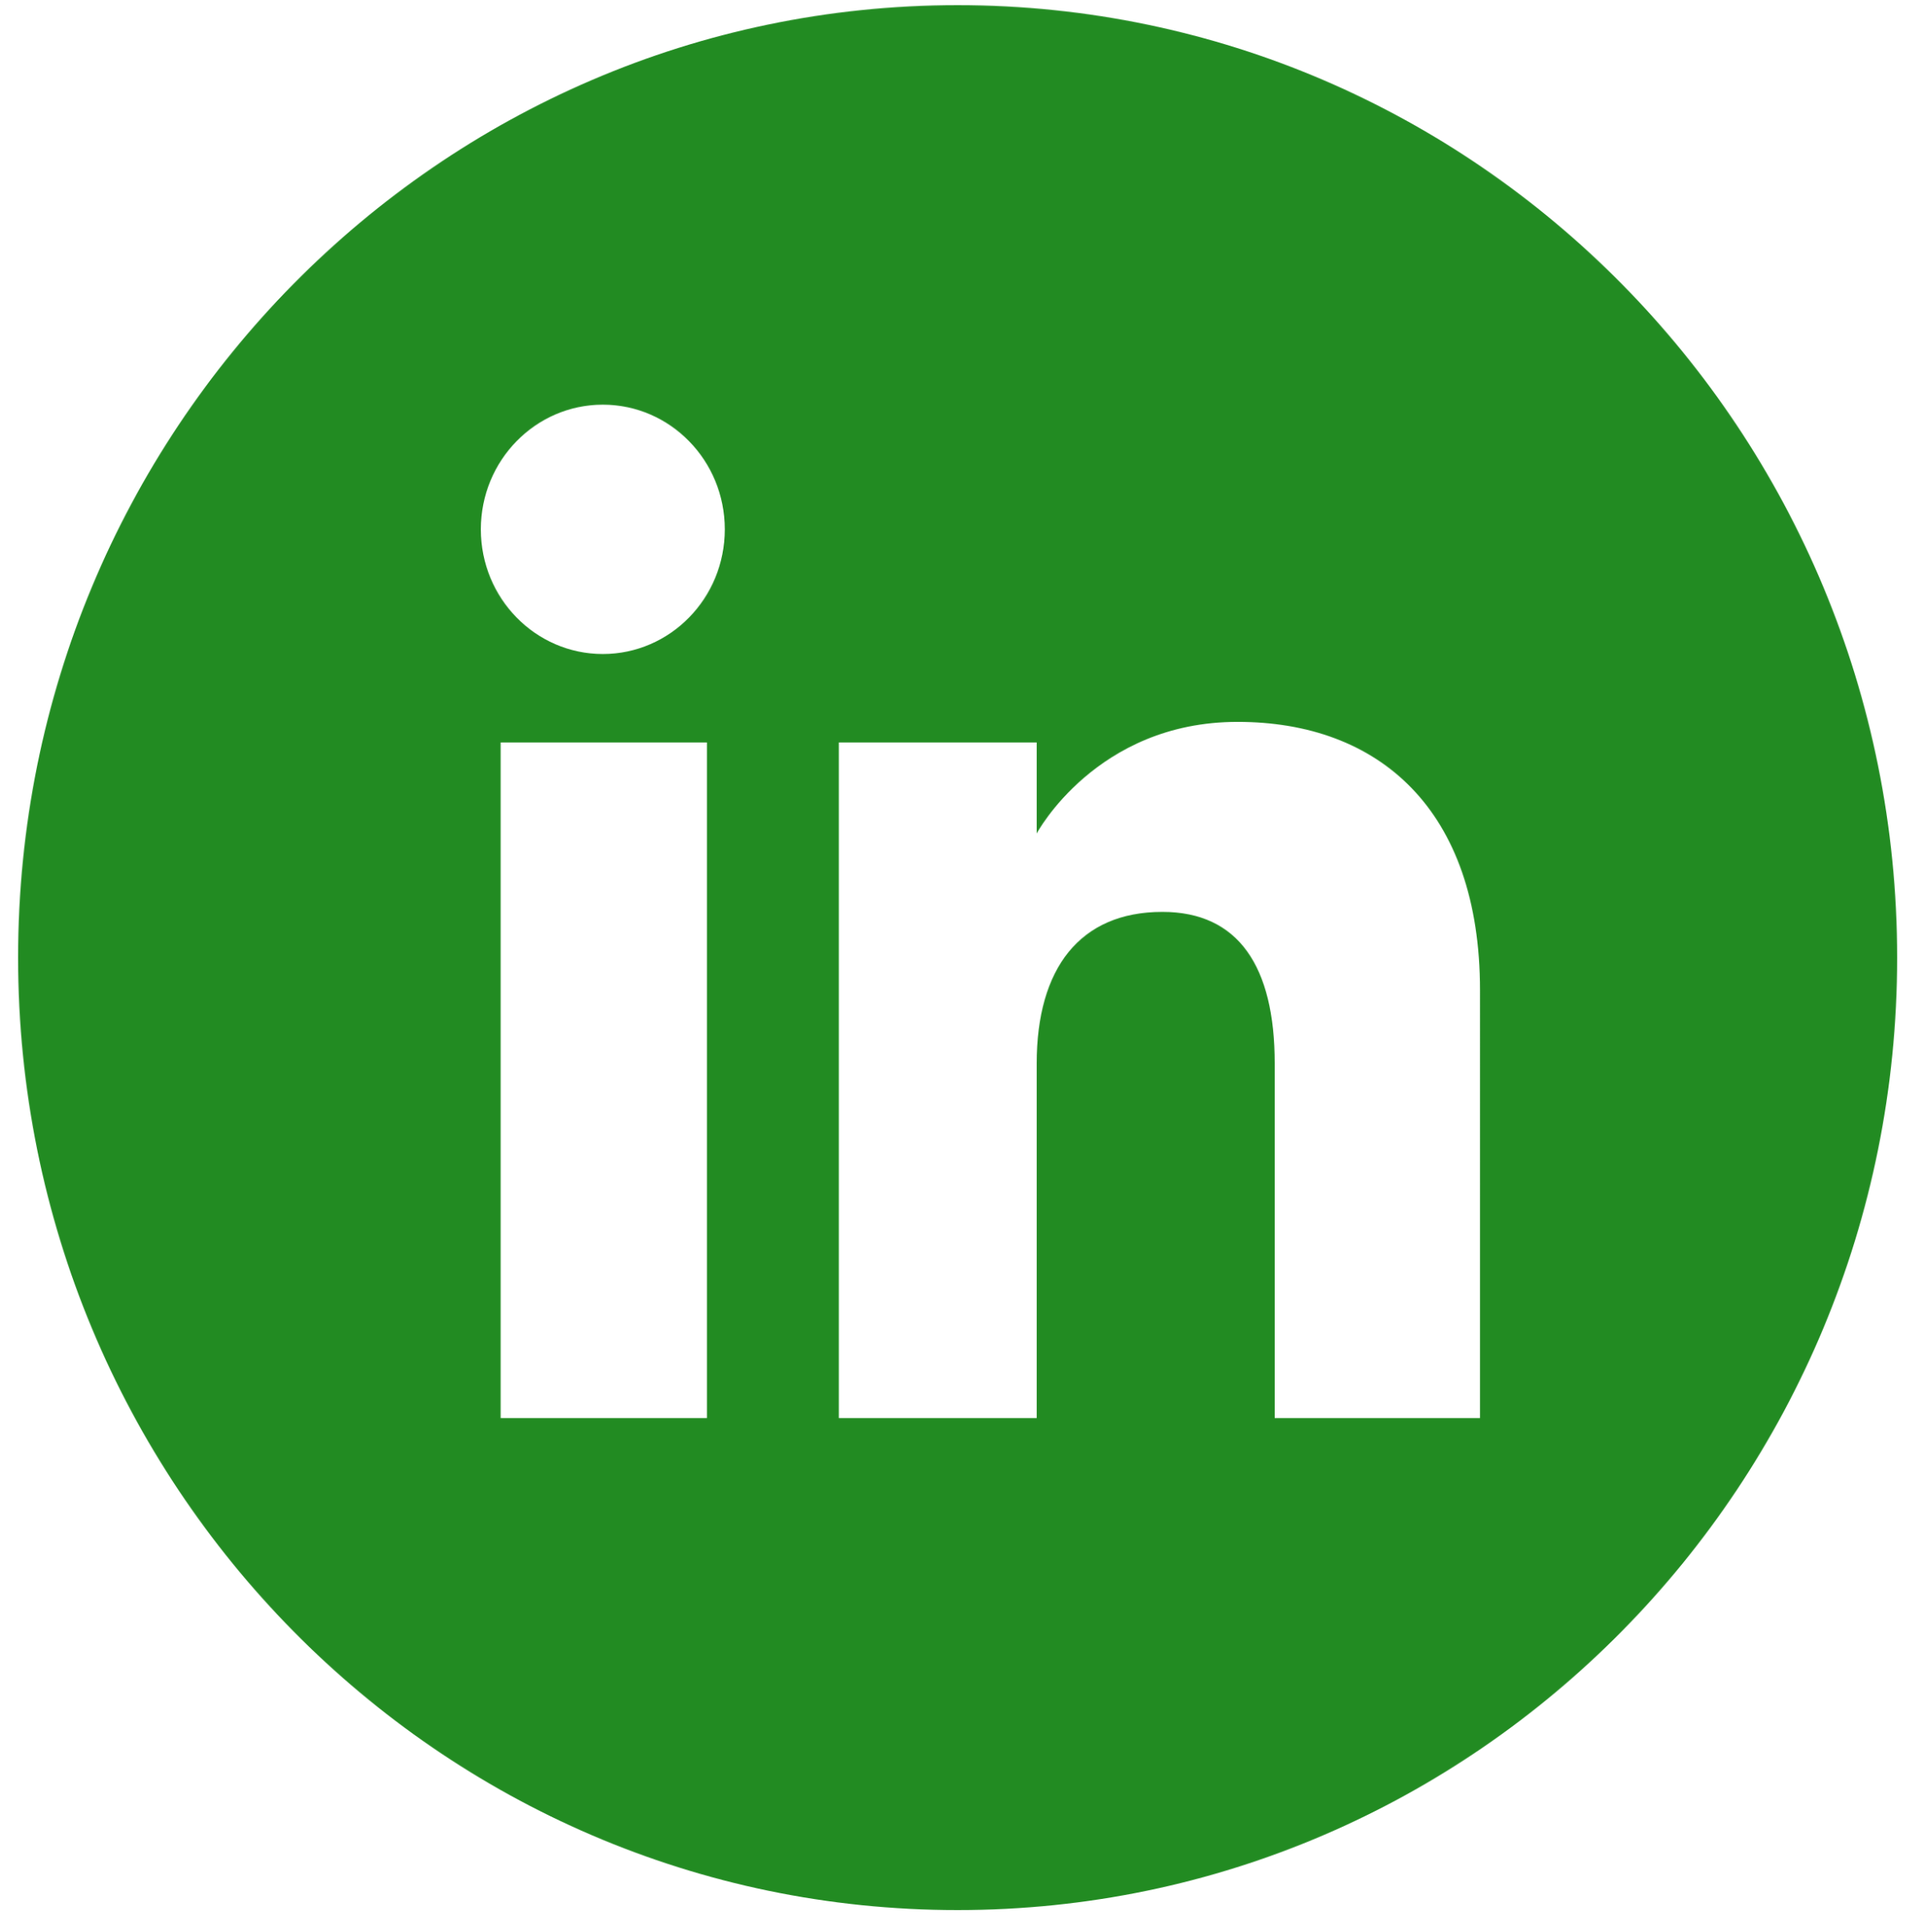
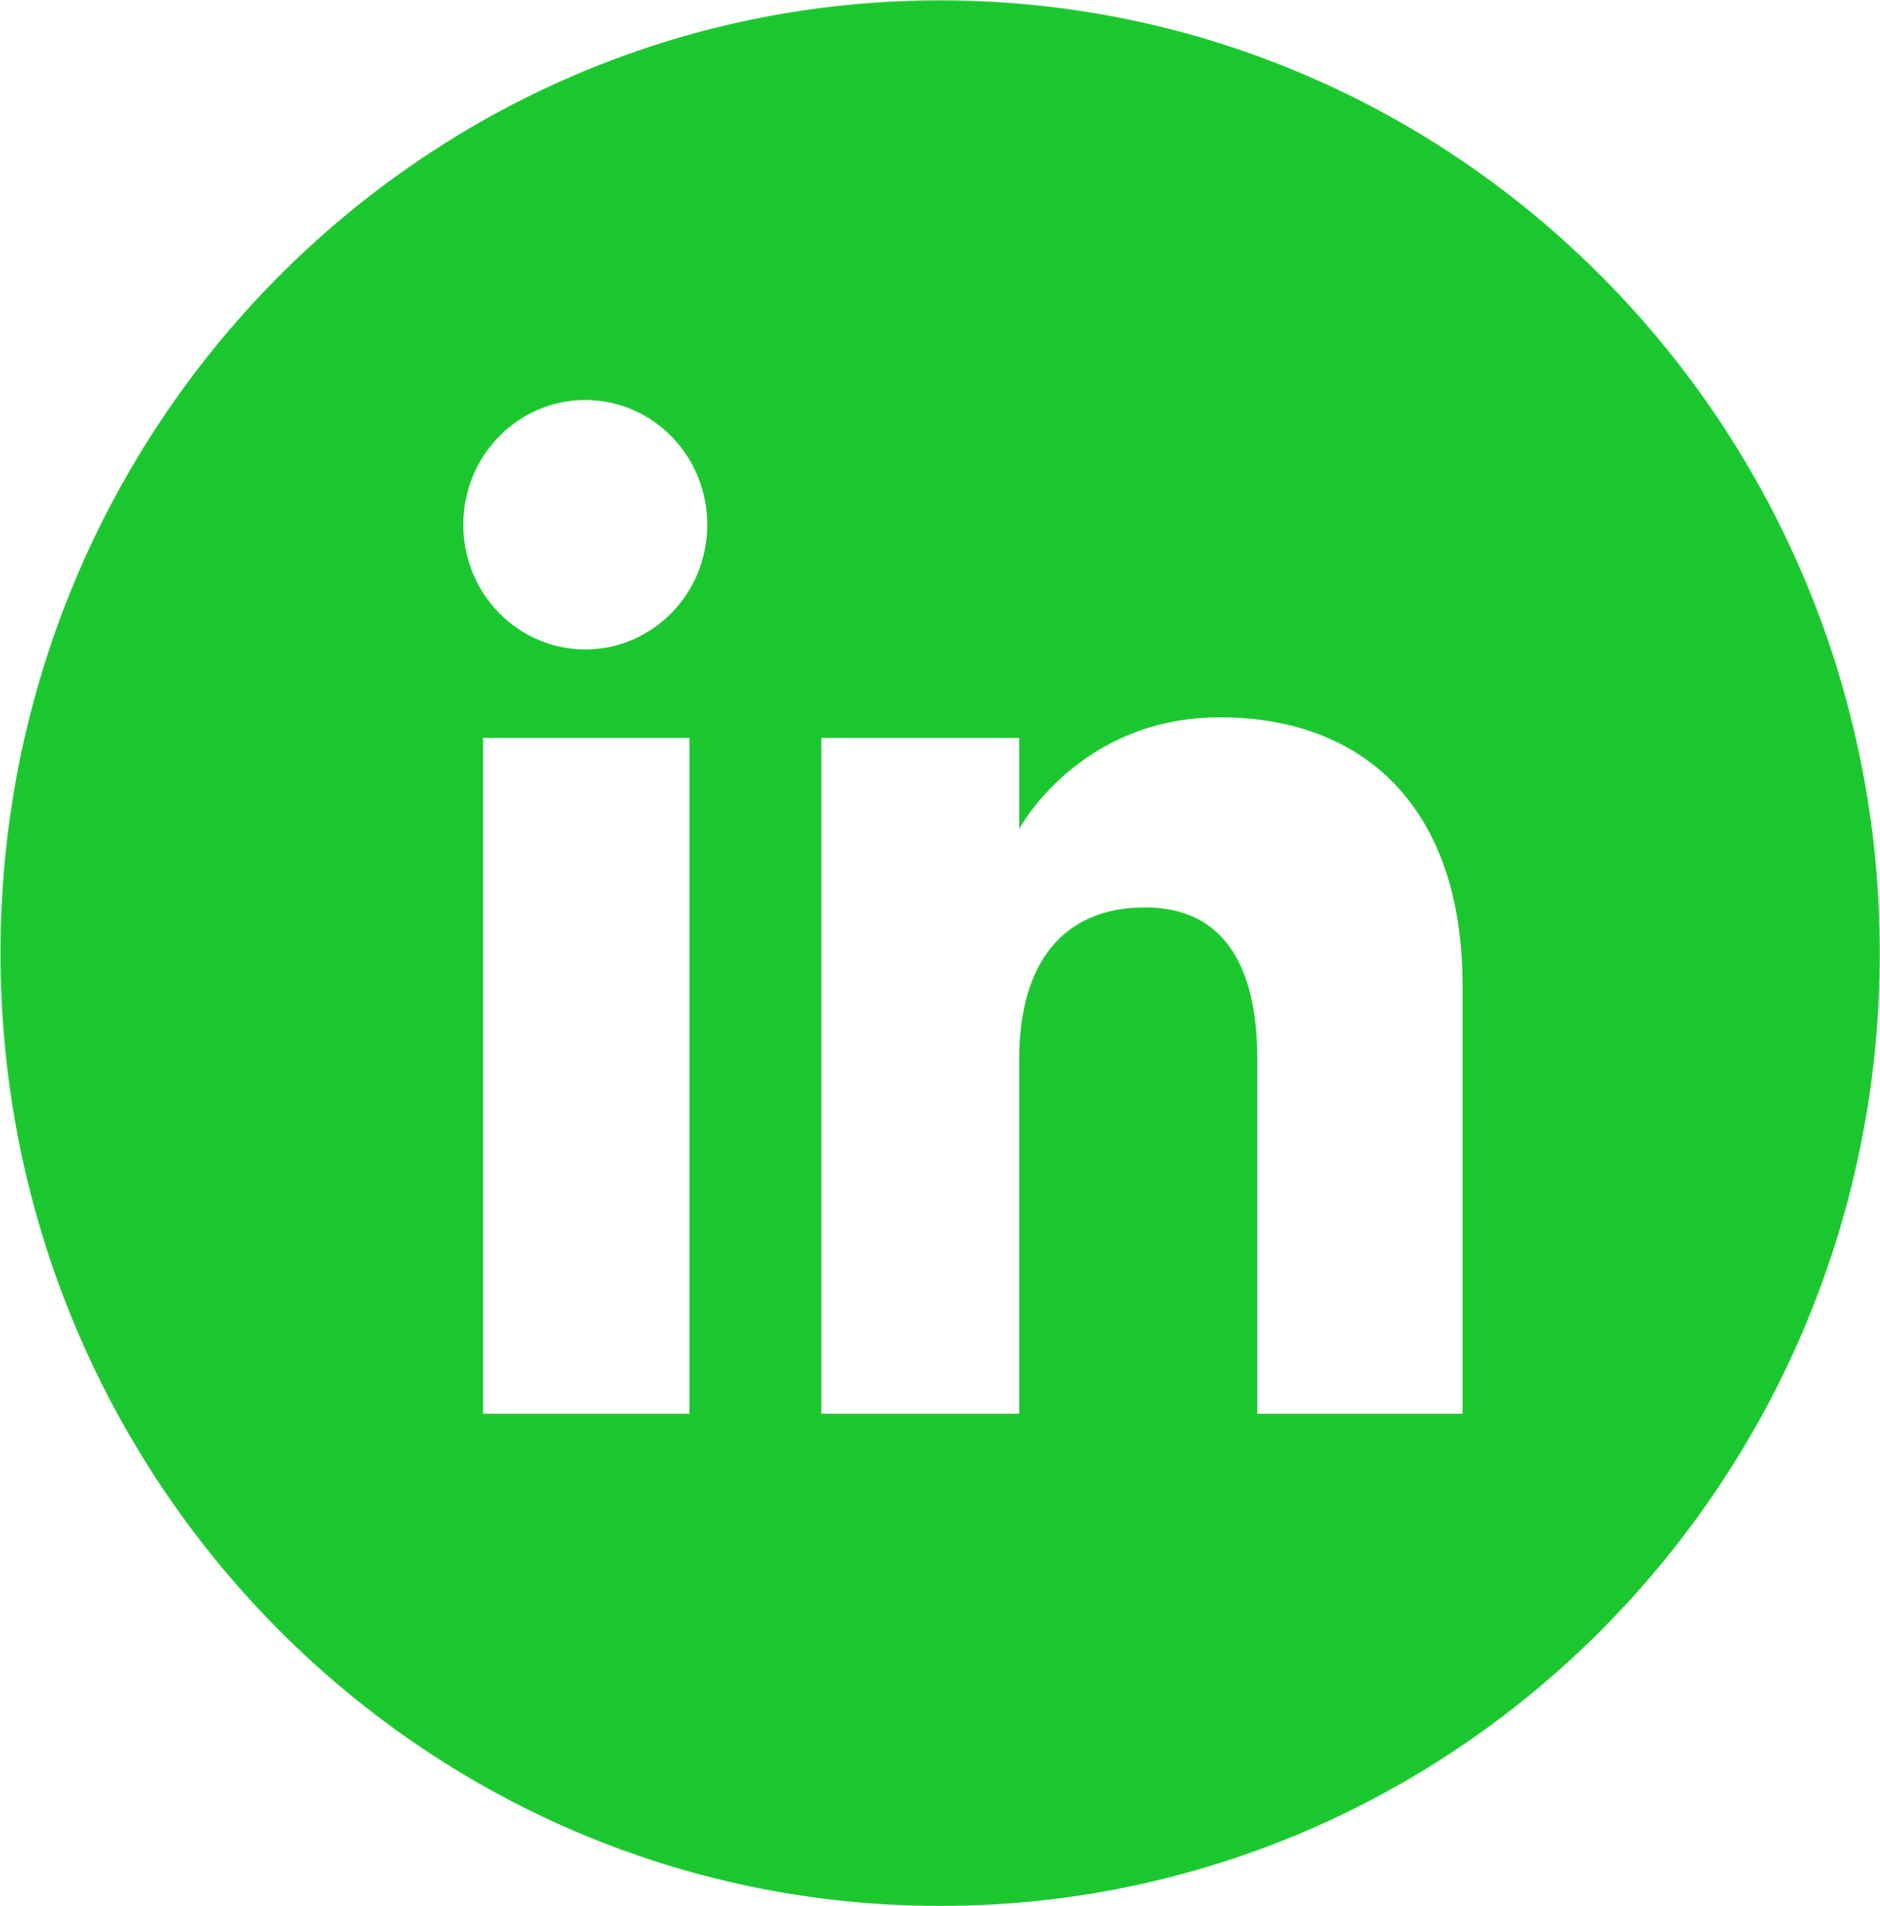
update color scheme

diff --git a/css/main.css b/css/main.css
@@ -85,7 +85,7 @@ h3 {
 .hom {
   font-family: Arial, Helvetica, sans-serif; }
   .hom:hover {
-    border: 3px solid #1bc72f; }
+    border: 3px solid #ffe400; }
 
 /*Home page grid */
 .grid-home {
@@ -145,7 +145,7 @@ h3 {
 
 /* H3 homepage */
 .title {
-  color: #005BAD;
+  color: #477dfd;
   margin-left: -4px; }
 
 /* Home page paragraph style */
@@ -158,7 +158,7 @@ h3 {
 .path {
   border: 5px solid black; }
   .path:hover {
-    border: 5px solid #1bc72f; }
+    border: 5px solid #ffe400; }
 
 /* a href class in subject section */
 .route {
@@ -177,7 +177,7 @@ h3 {
   margin: 10px;
   height: 400px;
   width: fit-content;
-  background-color: #ffe400;
+  background-color: #1bc72f;
   border-radius: 20px;
   position: relative; }
 
@@ -194,7 +194,7 @@ h3 {
   padding: 10px;
   font-family: Arial, Helvetica, sans-serif; }
   .mid-nav:hover {
-    color: #1bc72f;
+    color: #ffe400;
     border: 1px solid black;
     border-radius: 3%;
     padding: 10px; }
@@ -249,7 +249,7 @@ h3 {
 /* resume download button */
 .myResume {
   border-radius: 6px;
-  border: 1px solid #1bc72f;
+  border: 1px solid #ffe400;
   display: inline-block;
   cursor: pointer;
   color: white;
@@ -260,7 +260,7 @@ h3 {
   text-decoration: none;
   margin: 40px 10px; }
   .myResume:hover {
-    background-color: #1bc72f; }
+    background-color: #ffe400; }
 
 .myResume:active {
   position: relative;

diff --git a/index.html b/index.html
@@ -26,7 +26,7 @@
 		             <a href="https://twitter.com/gaabinooo" target="_blank"><img class="sm" src="./images/twitter.png" alt="Twitter logo in gray"/></a>
 		         </div>
 			</div>
-			<h1 style="padding-bottom:5px; color:005BAD"> Quick Facts</h1>
+			<h1 style="padding-bottom:5px; color:rgb(71, 125, 253)"> Quick Facts</h1>
 
 <div id="parent">
    <main id="about" class="grid-home">
@@ -62,7 +62,7 @@
 				</section>
 			</div>
 	 </main>
-	<hr color="#000080" size="4" width="50%"/>
+	<hr color="rgb(71, 125, 253)" size="4" width="50%"/>
 		<section id="subjects">
 			<a class="route" href="pages/web.html">     <img src="images/webButton.jpg" class="path" height="160px" width="280px" alt="Web design work link"/></a>
 			<a class="route" href="pages/graphics.html"><img src="images/GraphicButton.jpg" class="path" height="160px" width="280px" alt="Graphic design work link"/></a>		

diff --git a/css/main.scss b/css/main.scss
@@ -3,8 +3,8 @@ $font-family : Arial, Helvetica, sans-serif;
 $darker-color: rgb(71, 125, 253);
 $accent:black;
 $visibility-color:white;
-$third-color: #1bc72f;
-$light-color: #ffe400;
+$third-color: #ffe400;
+$light-color: #1bc72f;
 
 
 
@@ -193,7 +193,7 @@ body{
 
             /* H3 homepage */
             .title {
-              color:#005BAD;
+              color:$darker-color;
               margin-left: -4px;
               }
 
